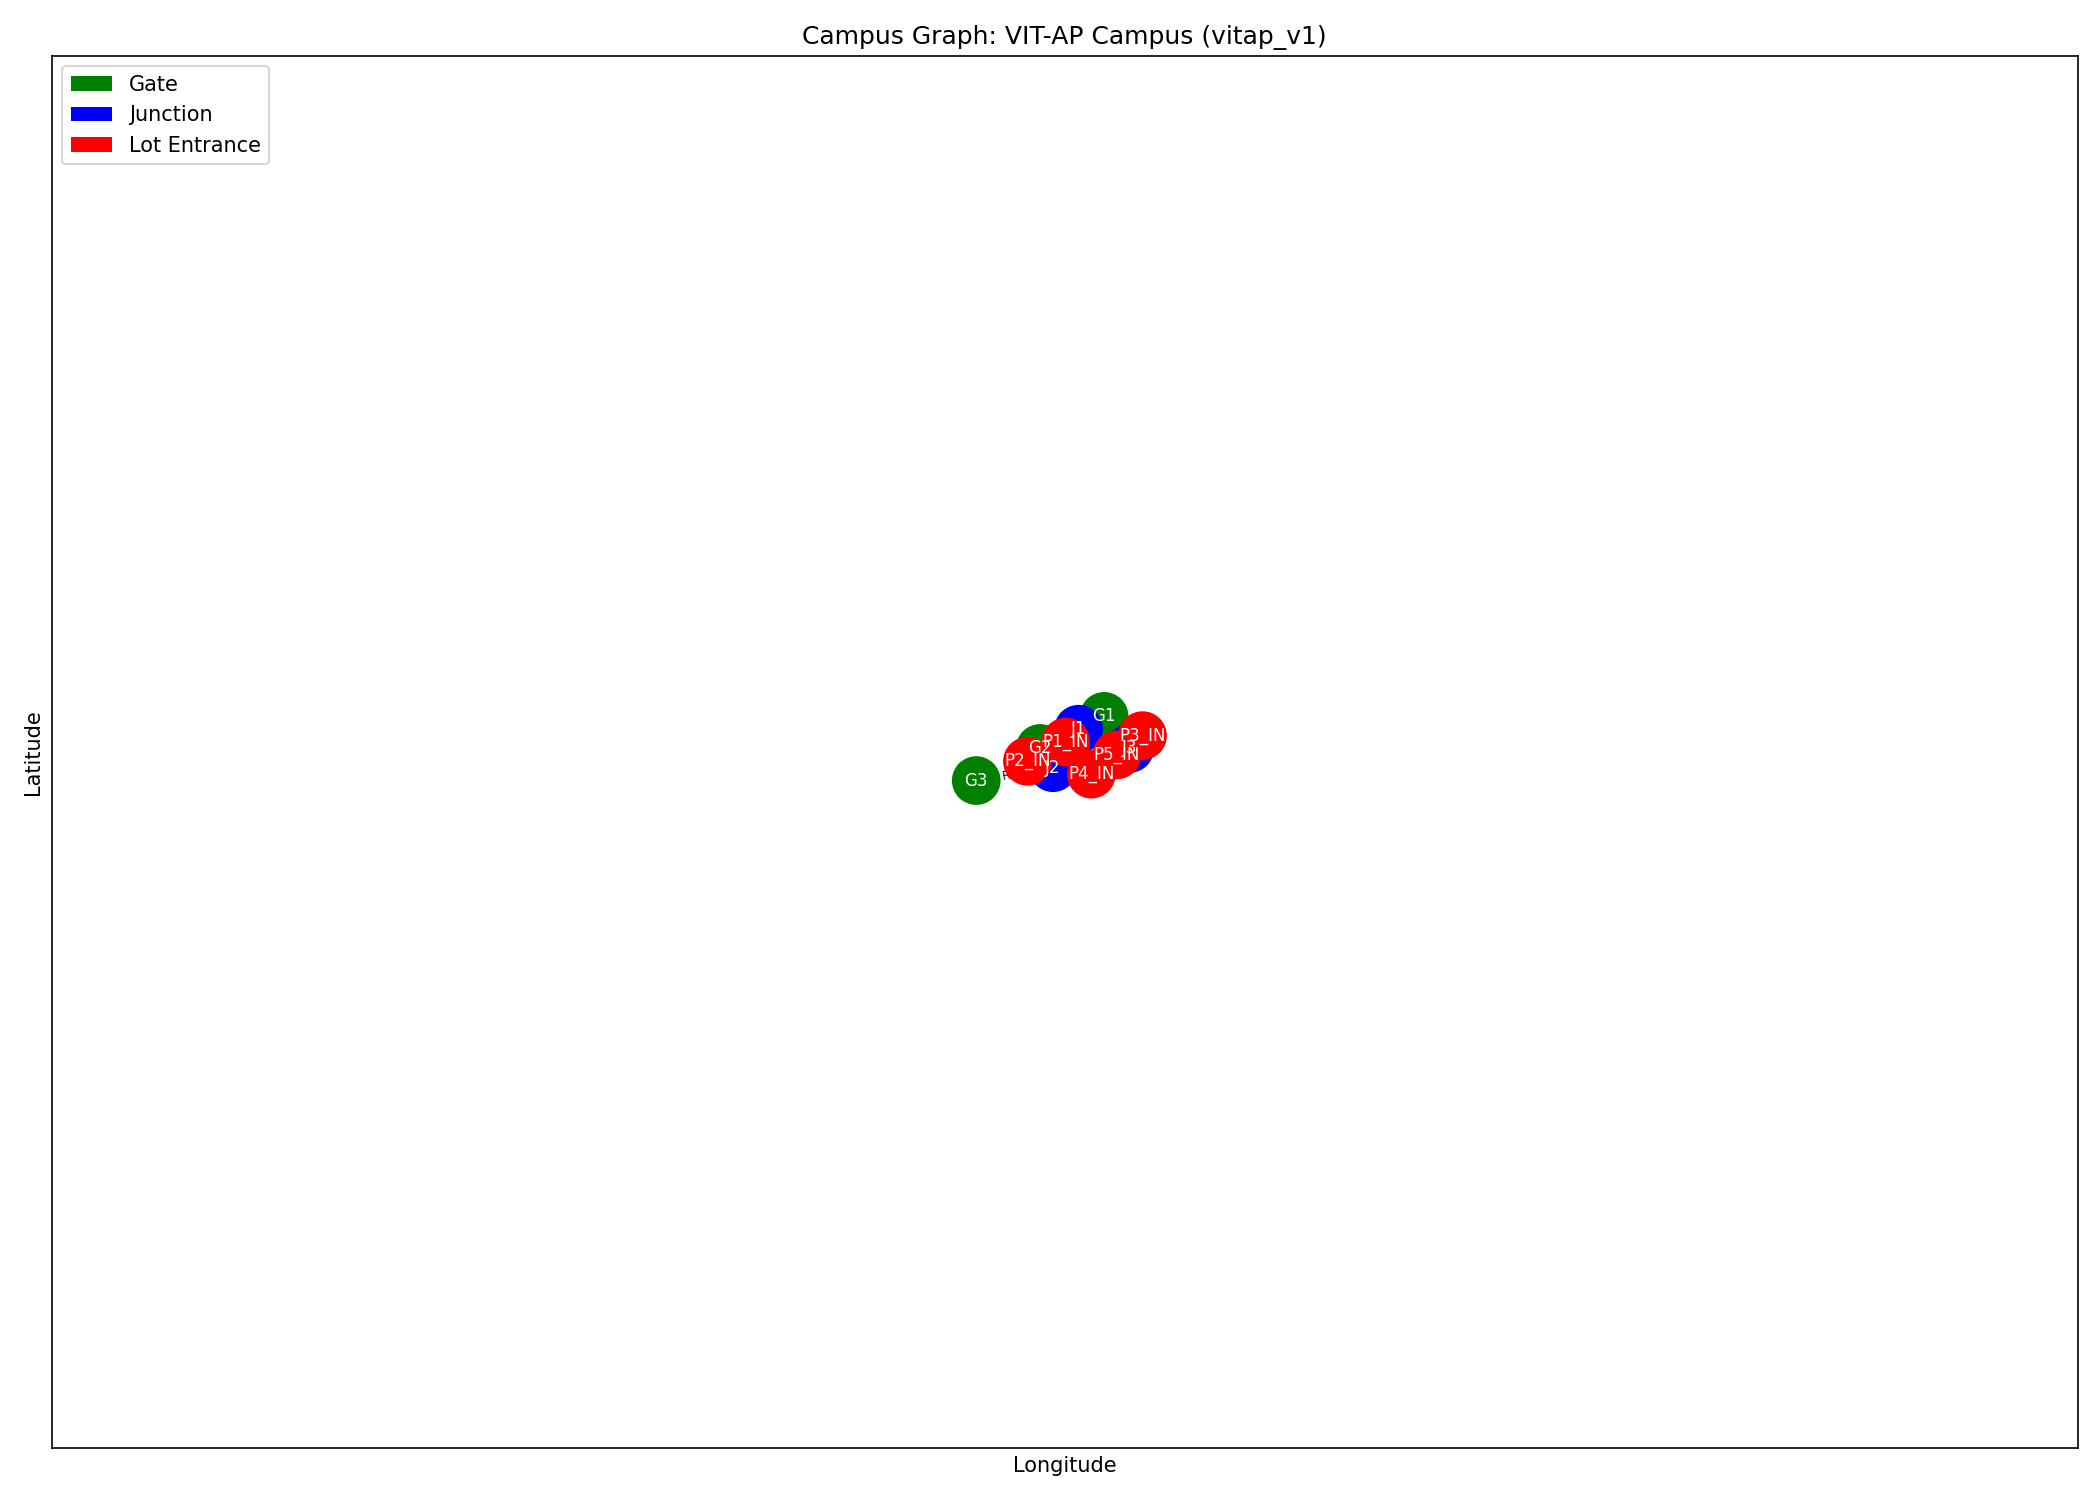
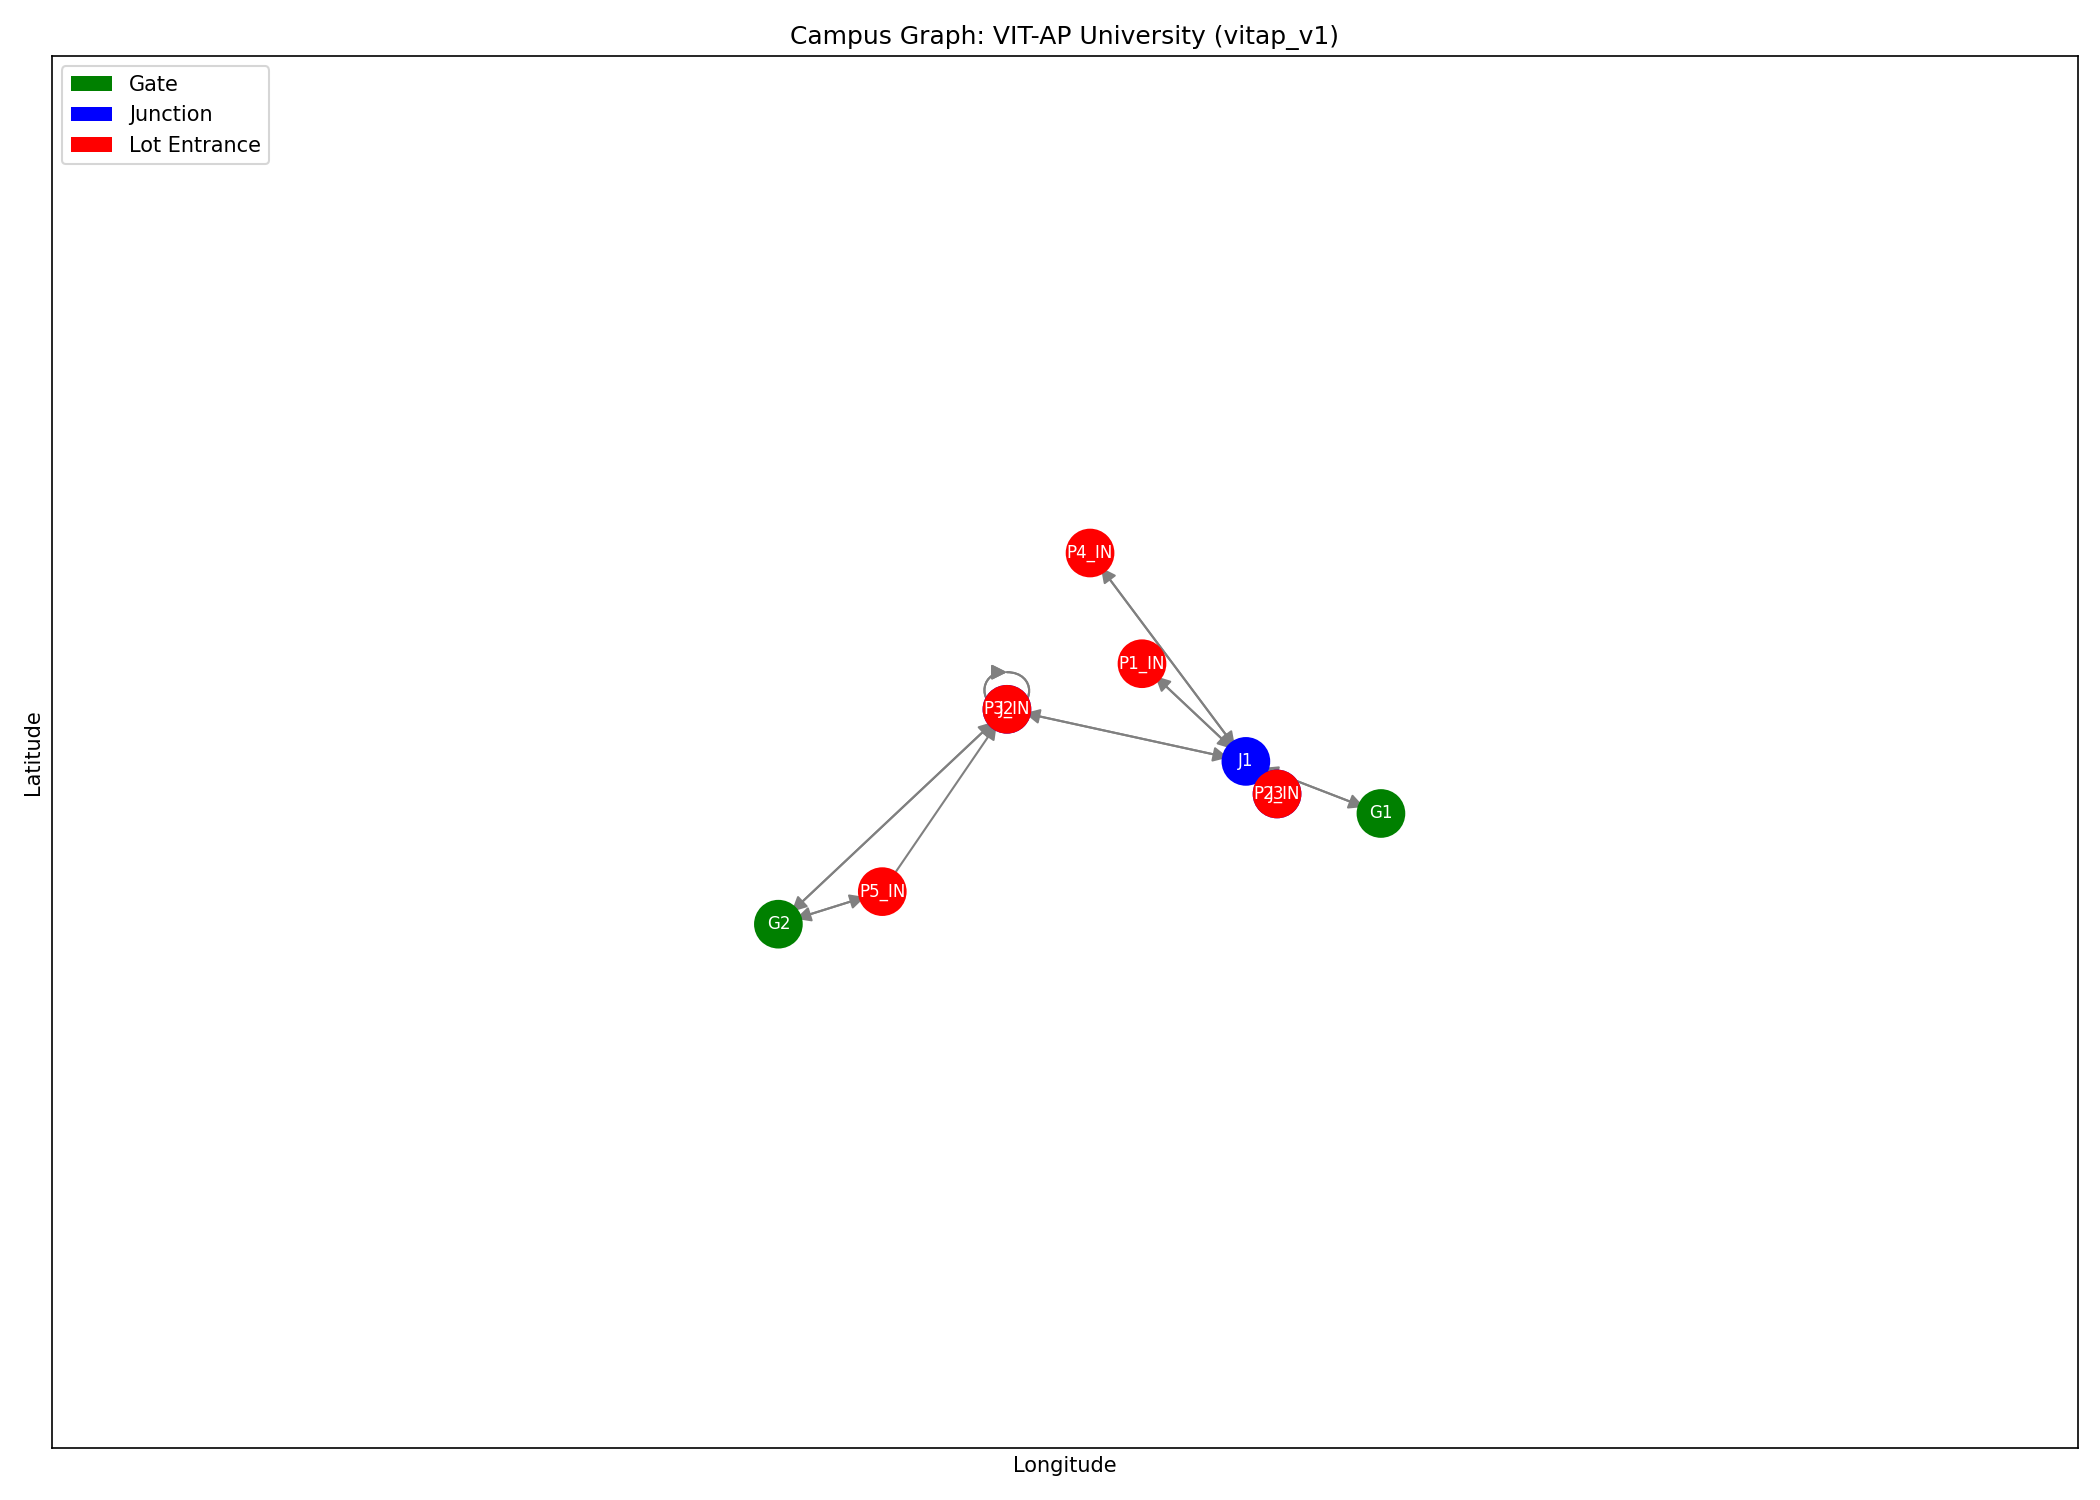
fix(member1): vitap_v1.yaml uses real campus data (2 gates, 5 lots), fix PNG export
- vitap_v1.yaml: rebuilt from real vitap.yaml data — 2 gates (Main Gate
  360vph, Visitor Gate 180vph), 5 lots with real capacities (120/180/80/
  100/60), real coordinates from Google Maps/team survey
- campus_config.py: fix edge label crash (networkx DiGraph curved-arrow
  incompatibility in this Python version)
- verify_campus_config.py: load vitap_v1 (spec file) not vitap (DB file)
- vitap.yaml untouched — original real dataset preserved

All 6 verify checks pass: 2 gates | 5 lots | 18 roads | 10 nodes

diff --git a/digital_twin/simulation/verify_campus_config.py b/digital_twin/simulation/verify_campus_config.py
@@ -38,7 +38,7 @@ def check(label: str, passed: bool, detail: str = "") -> None:
 # ── Test 1: load vitap_v1 ─────────────────────────────────────────────────────
 print("\n=== Test 1: load vitap_v1 ===")
 try:
-    campus = load_campus("vitap", str(ROOT / "configs" / "campus"))
+    campus = load_campus("vitap_v1", str(ROOT / "configs" / "campus"))
     detail = (
         f"id={campus.id} | gates={len(campus.gates)} | lots={len(campus.parking_lots)} "
         f"| roads={len(campus.roads)} | nodes={len(campus.nodes)}"
@@ -192,7 +192,7 @@ except Exception as exc:
 # ── Test 6: graph PNG saved ───────────────────────────────────────────────────
 print("\n=== Test 6: graph PNG saved ===")
 try:
-    campus = load_campus("vitap", str(ROOT / "configs" / "campus"))
+    campus = load_campus("vitap_v1", str(ROOT / "configs" / "campus"))
     png_path = plot_campus(campus, str(ROOT / "docs" / "campus_graph_vitap_v1.png"))
     exists = Path(png_path).exists()
     check("campus graph PNG saved", exists, f"Saved to: {png_path}")

diff --git a/digital_twin/simulation/campus_config.py b/digital_twin/simulation/campus_config.py
@@ -248,10 +248,7 @@ def plot_campus(campus: CampusConfig, output_path: str) -> str:
     nx.draw_networkx_labels(g, pos, font_size=8, font_color="white", ax=ax)
     nx.draw_networkx_edges(g, pos, edge_color="gray", arrows=True, arrowsize=15, ax=ax)
 
-    # Edge labels = road id
-    edge_labels = {(d["from_node"] if hasattr(d, "from_node") else u, v): d.get("road_id", "")
-                   for u, v, d in g.edges(data=True)}
-    nx.draw_networkx_edge_labels(g, pos, edge_labels=edge_labels, font_size=6, ax=ax)
+    # Edge labels skipped (DiGraph curved-arrow label bug in this networkx version)
 
     # Legend
     from matplotlib.patches import Patch
